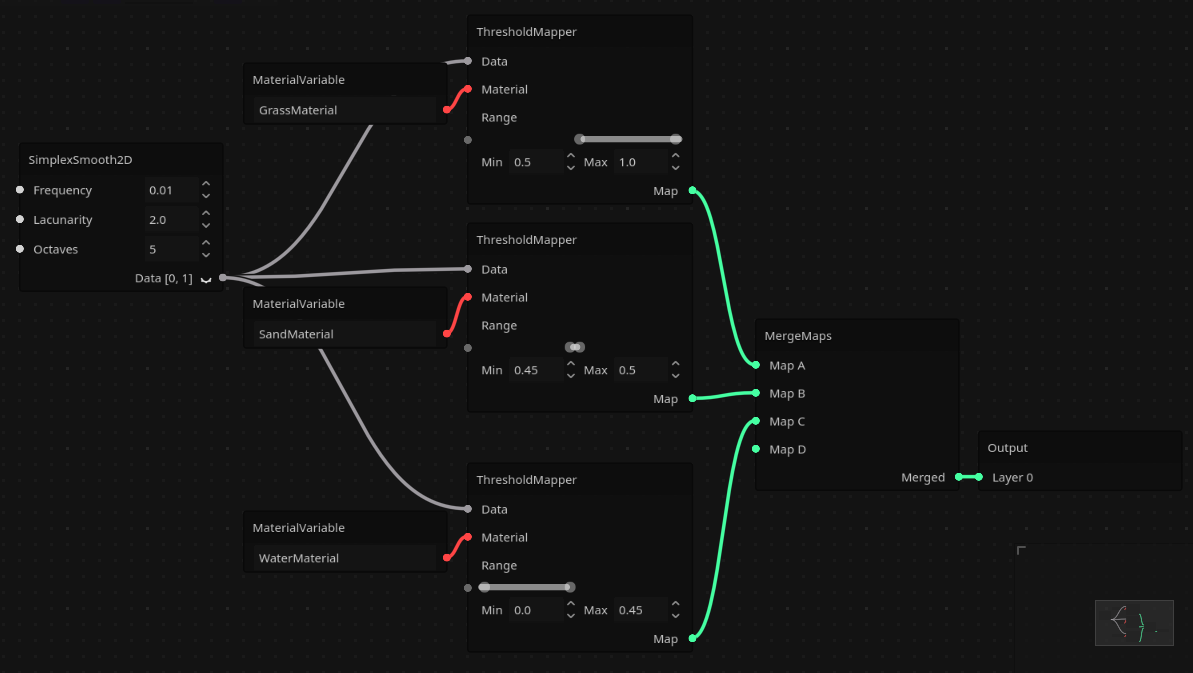
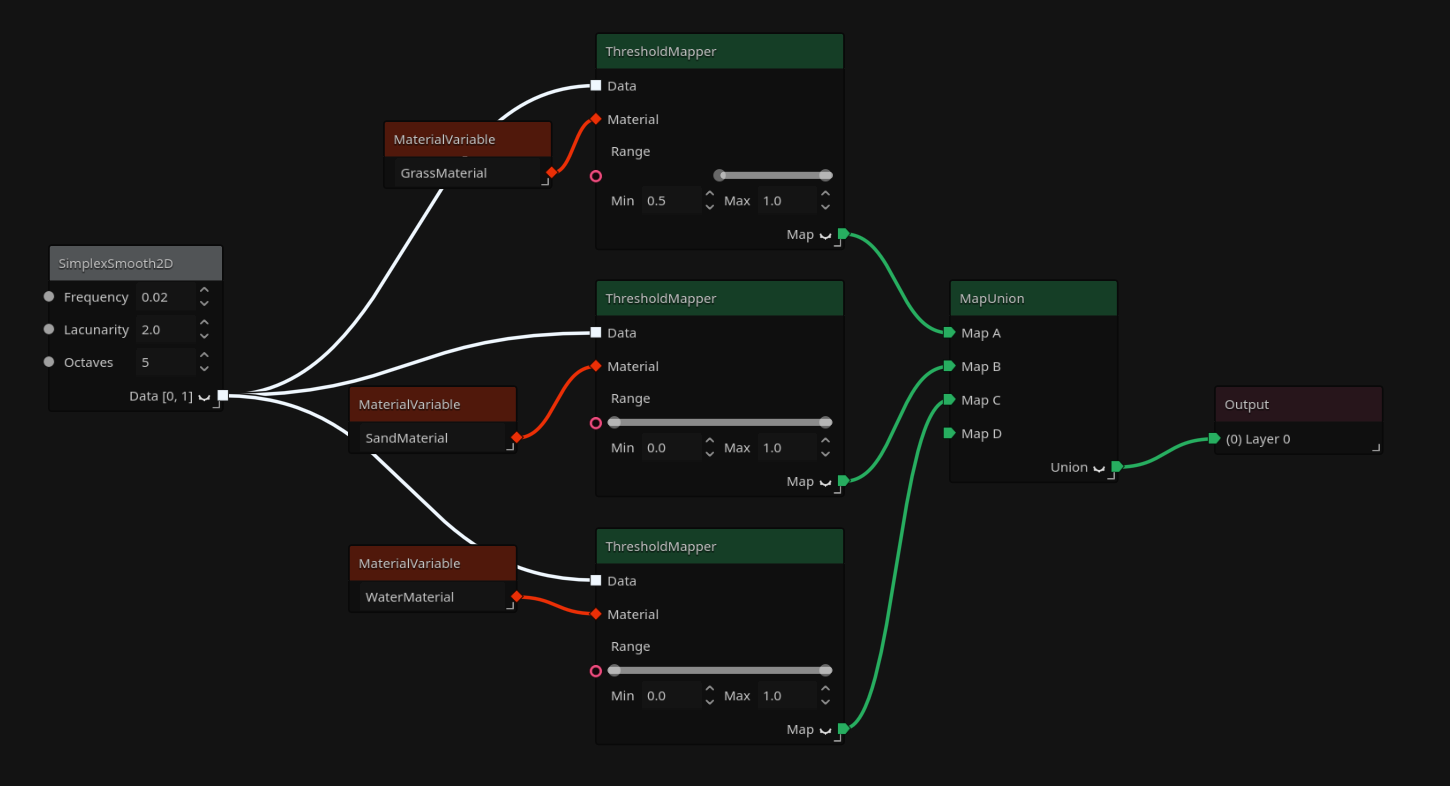
Update noise terrain tutorial images

diff --git a/docs/2.0/tutorials/generating-terrain.md b/docs/2.0/tutorials/generating-terrain.md
@@ -38,7 +38,7 @@ This resource tells the renderer what to draw. For `TilemapMaterial`s, you'll ne
 
 Create those 2 nodes and assign the generator to the renderer, and the tile map layer to the first element in the renderer's `tile_map_layers` array. You can set those aside for now.
 
-Now, connect the `MaterialVariable` node to the `Material` input in the mapper. Finally, connect the mapper's `Map` output to the `Layer 0` input in the `Output` node.
+Now, connect the `MaterialVariable` node to the `material` input in the mapper. Finally, connect the mapper's `map` output to the `Layer 0` input in the `Output` node.
 
 ![All the nodes connected together](/../assets/tutorials/generating-terrain/final.png)
 
@@ -48,7 +48,7 @@ That's it! Click the generate button in the top right of the panel and see the m
 
 # Adding More Terrain Types
 
-You can add more terrain types by adding more mapper nodes, and merging their outputs with the `MergeMaps` node. For example, this...
+You can add more terrain types by adding more mapper nodes, and merging their outputs with the `MapUnion` node. For example, this...
 
 ![A graph with more ThresholdMappers for sand and water, of the ranges 0.45-0.5 and 0.0-0.45 respectively. They all connect to a MergeMaps node, which outputs to the Output node](/../assets/tutorials/generating-terrain/final-final.png)
 
